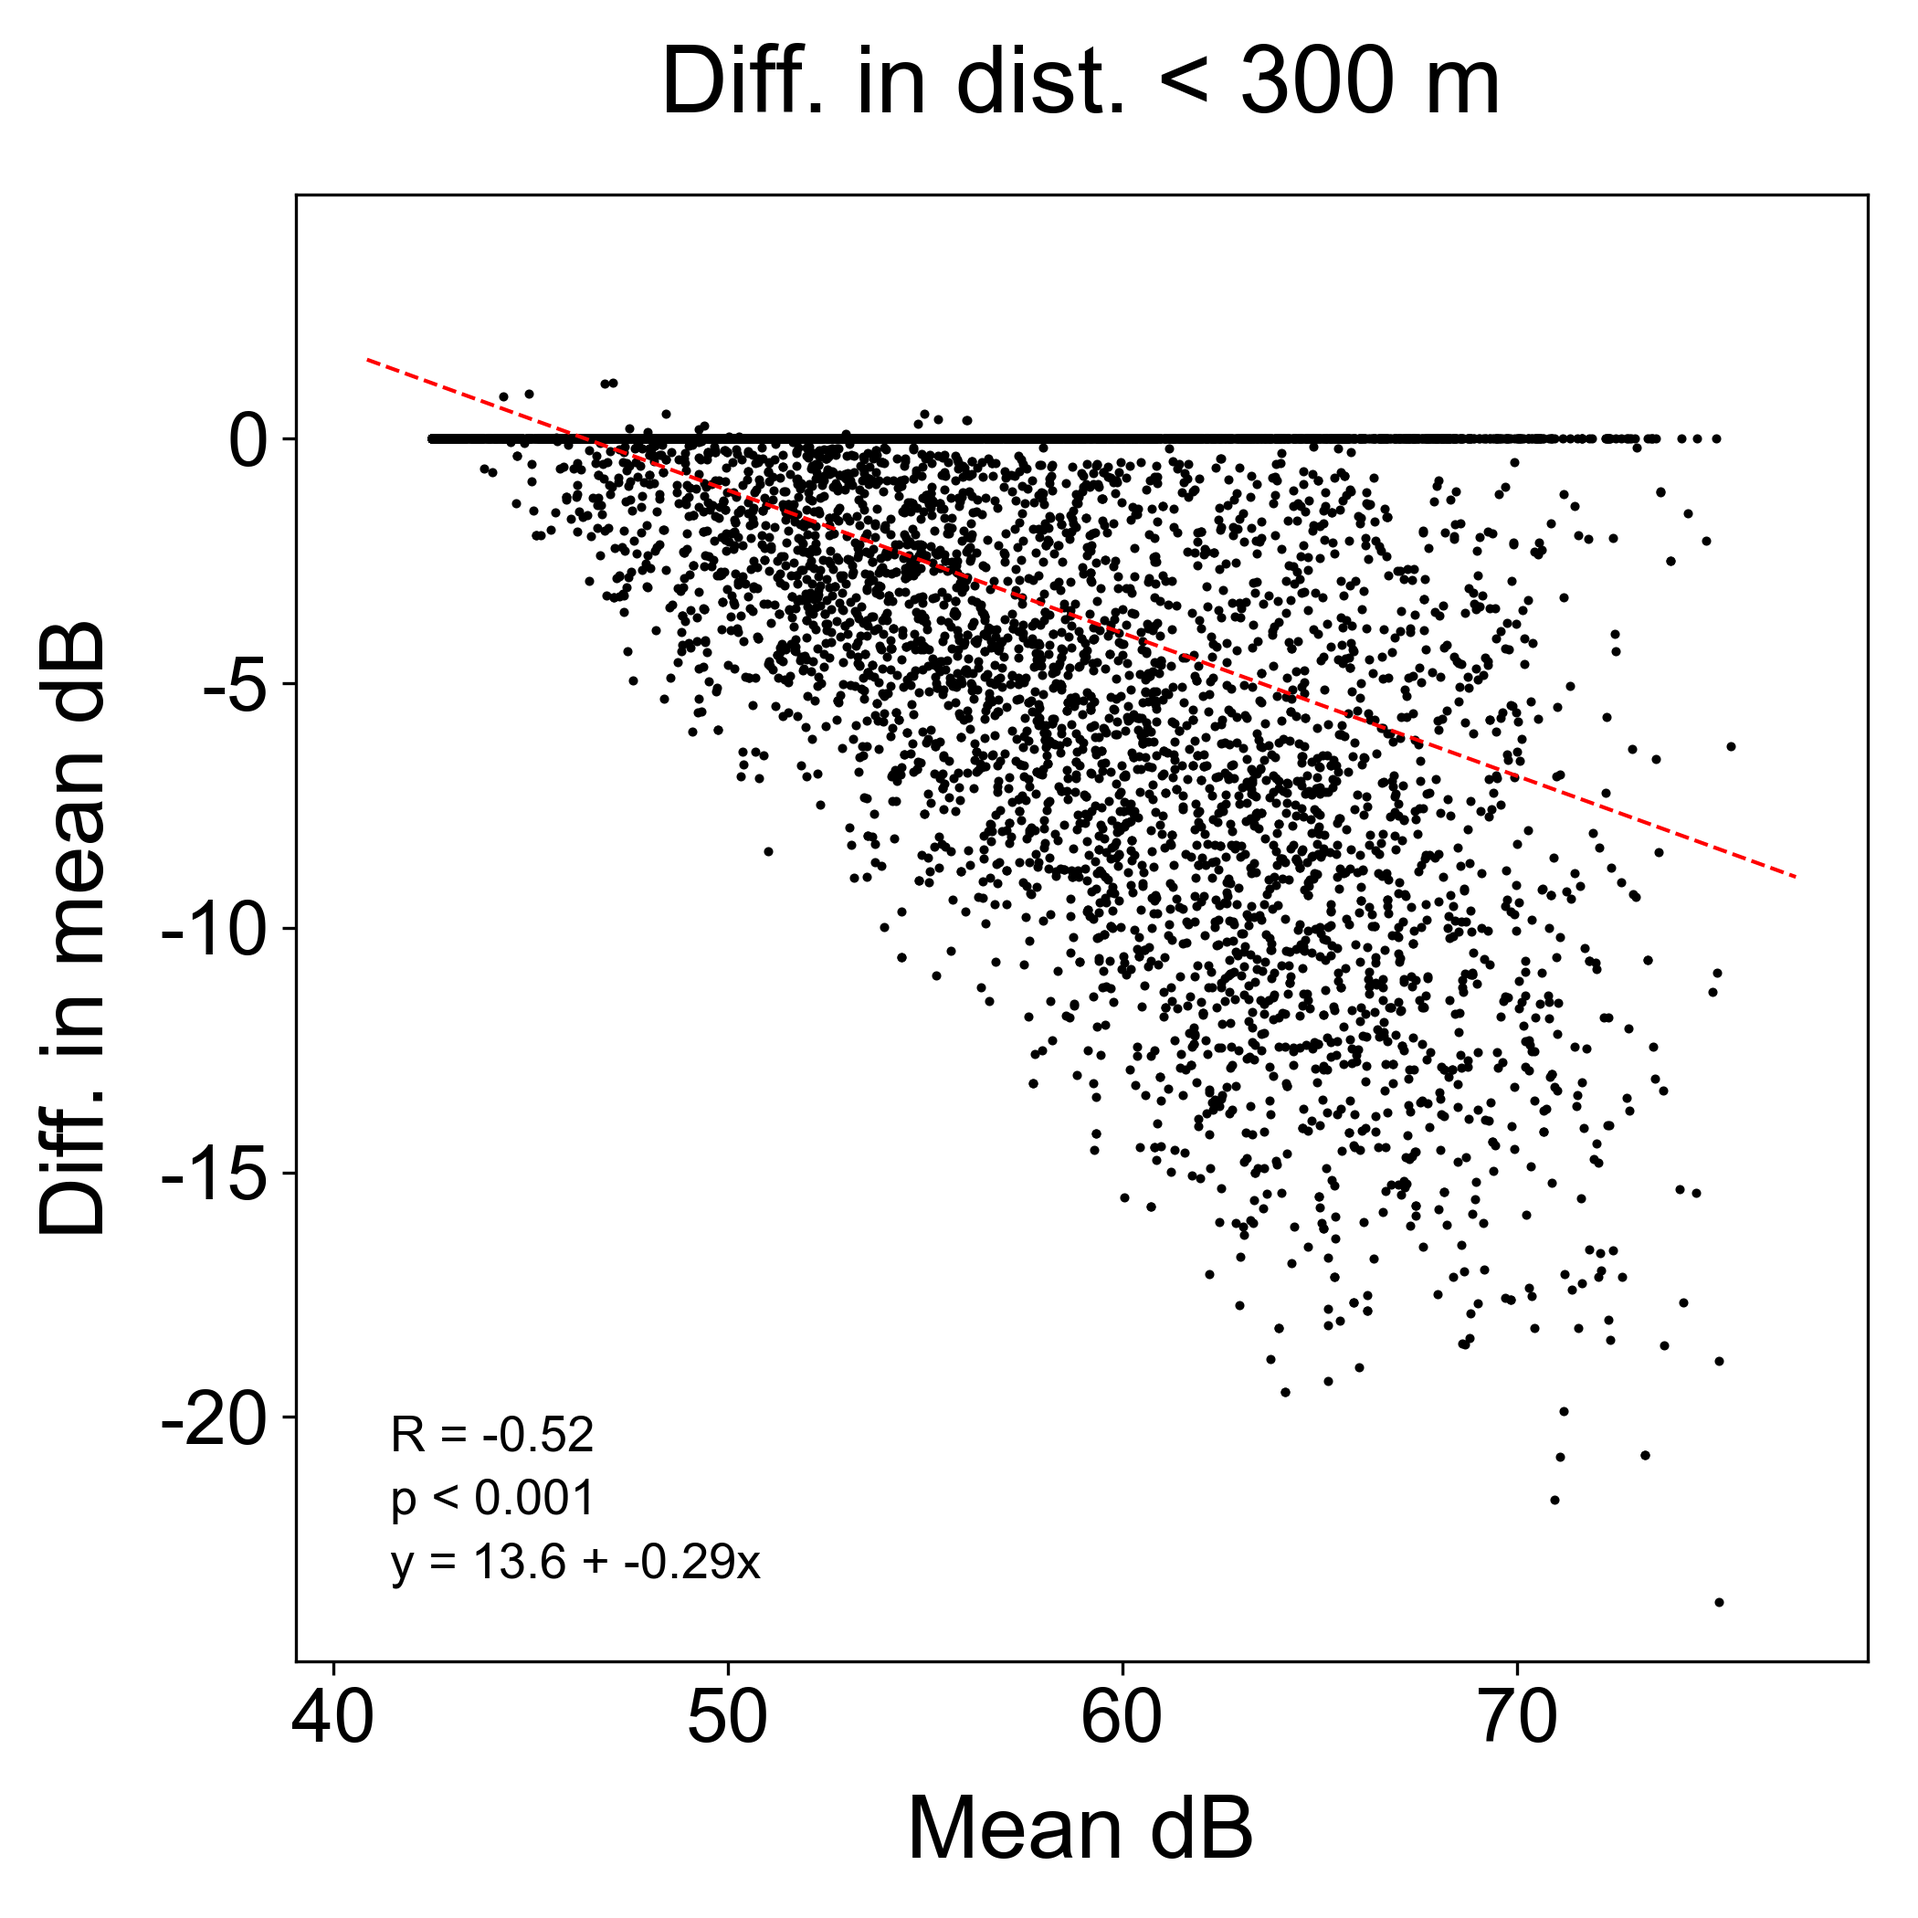
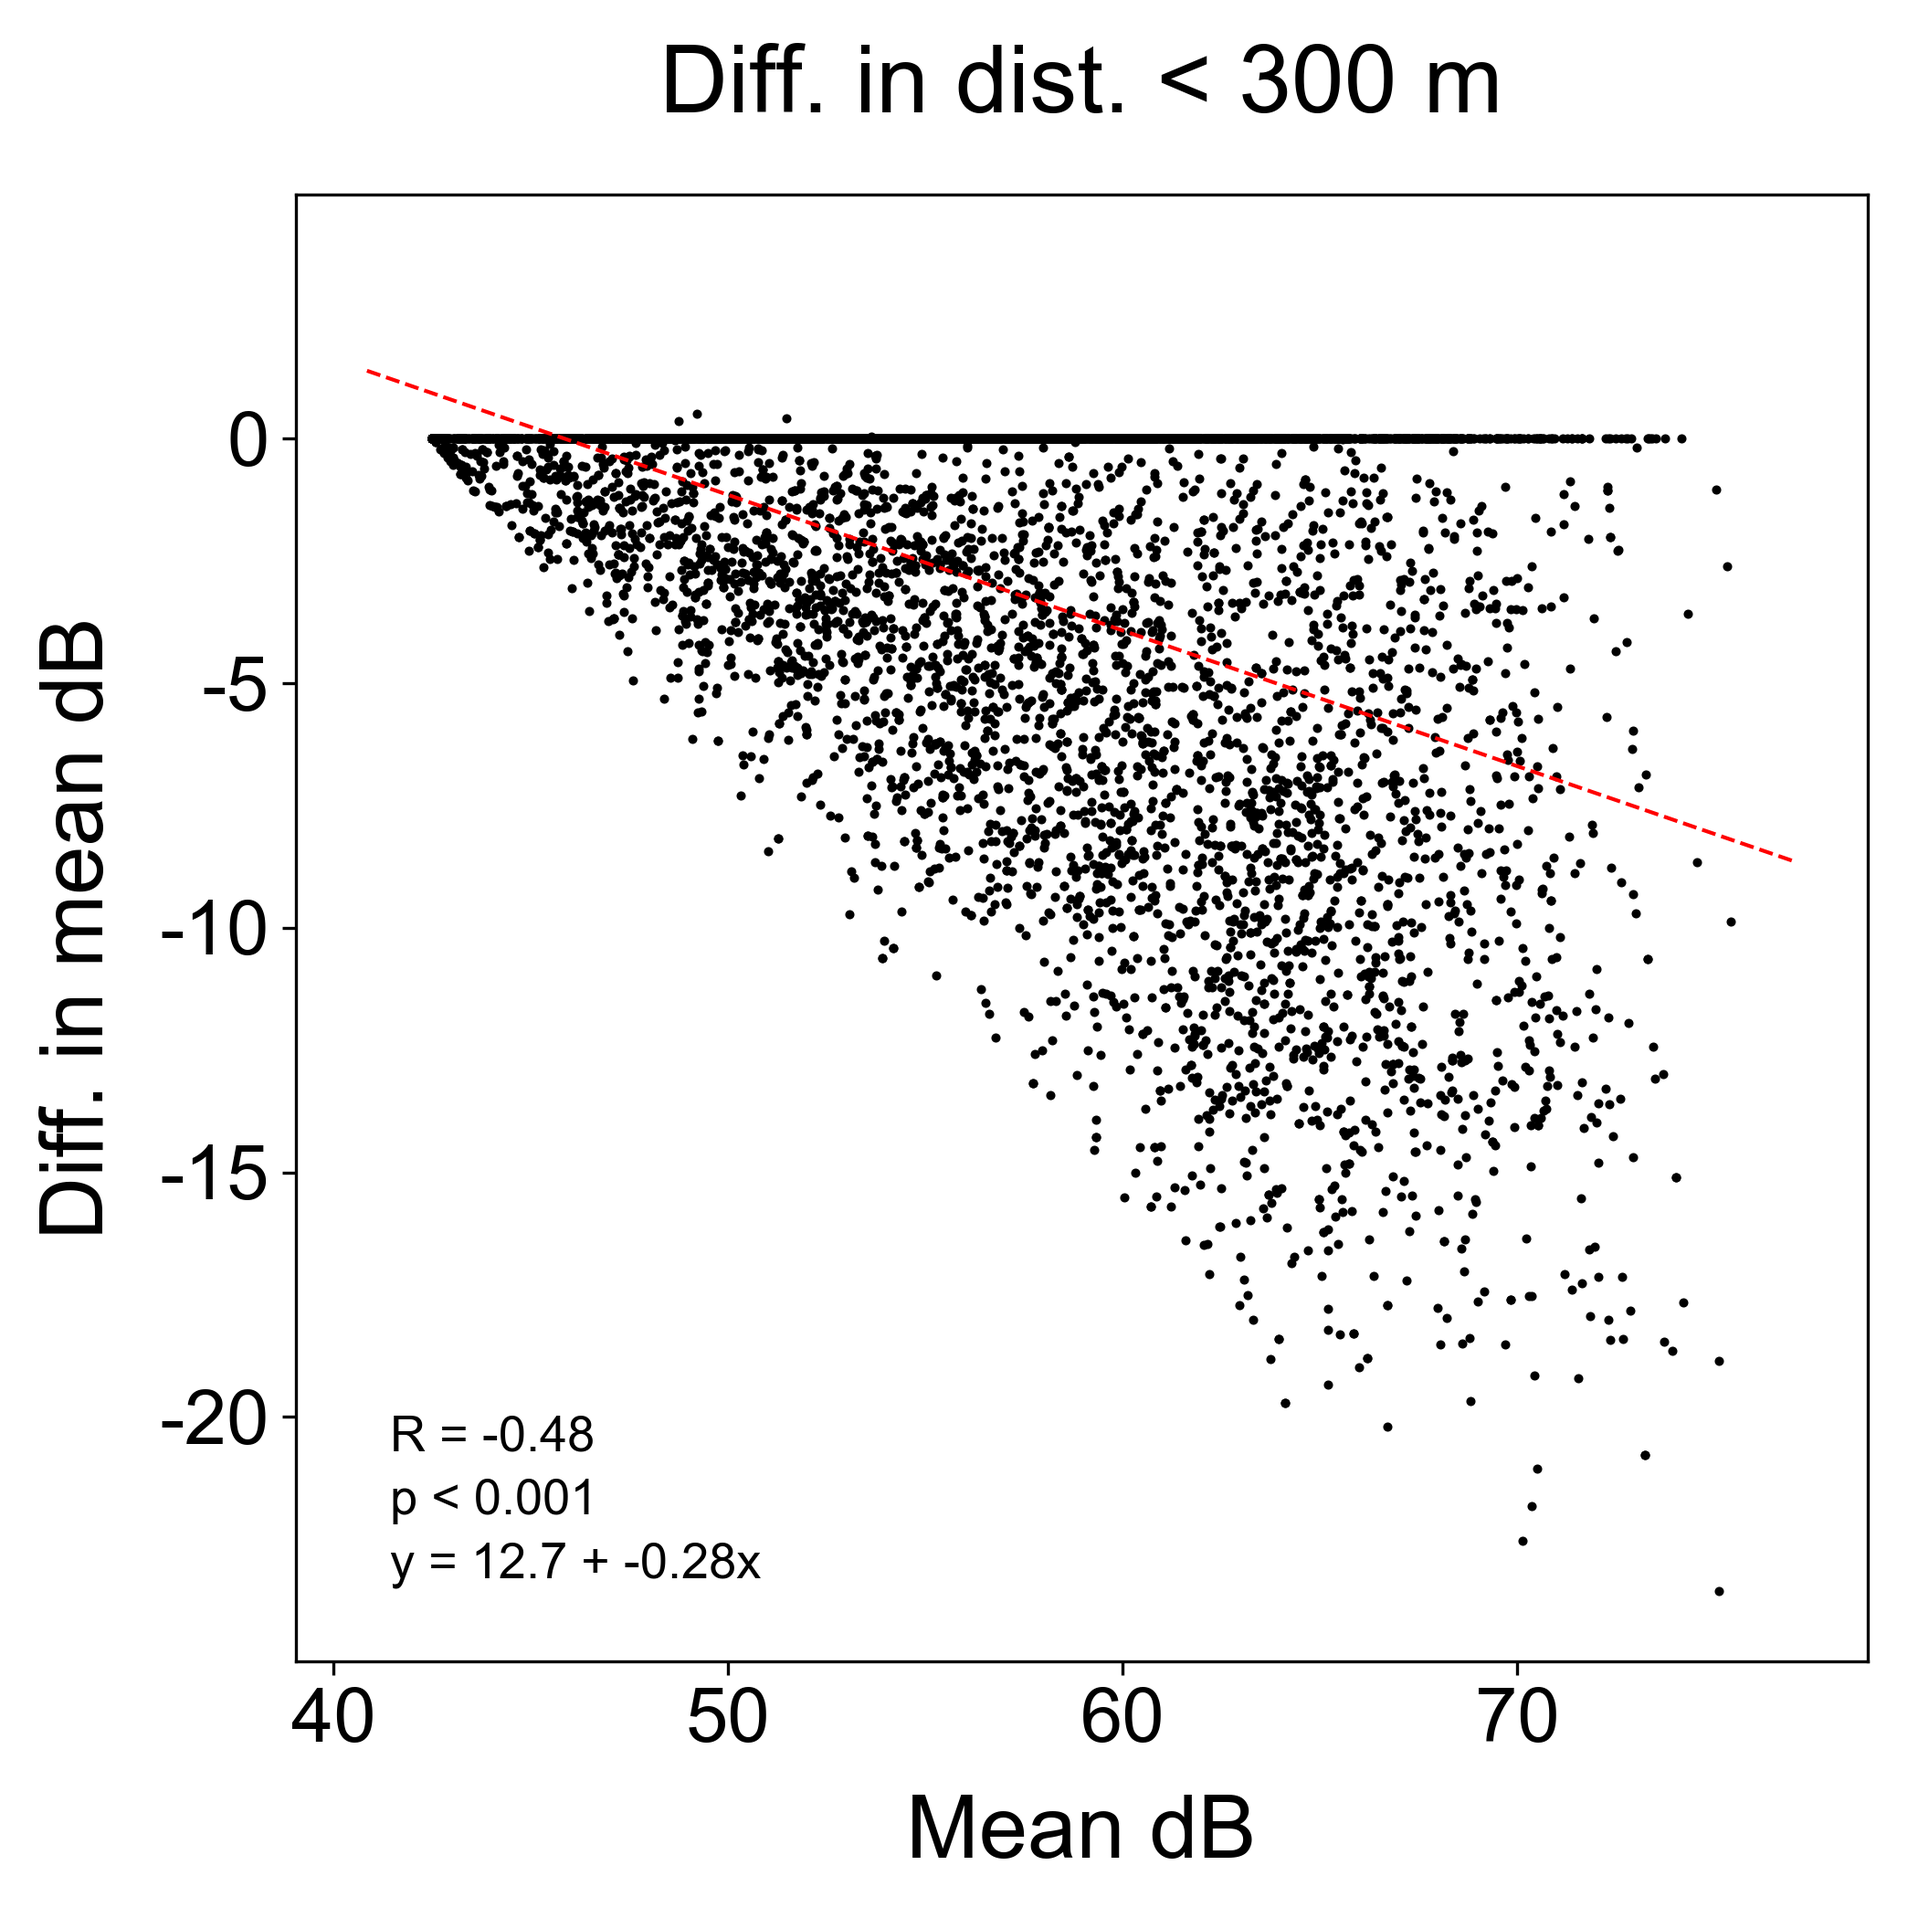
Re-run quiet_path_stats (run_6)

diff --git a/src/scripts_analysis/quiet_path_stats.py b/src/scripts_analysis/quiet_path_stats.py
@@ -12,9 +12,8 @@ import utils.files as files
 import utils.plots as plots
 import utils.exposures as exps
 
-walks_in_file = 'run_5_set_1'
+walks_in_file = 'run_6_set_1'
 problem_axyinds = [3933756673875]
-axyind_stats_out_file = 'axyind_stats_v4'
 
 #%% read all paths
 paths =  gpd.read_file('outputs/YKR_commutes_output/home_paths.gpkg', layer=walks_in_file)
@@ -27,8 +26,6 @@ print('axyind count:', len(paths['from_axyind'].unique()))
 print('paths per axyind:', round(len(paths.index)/len(paths['from_axyind'].unique())))
 print(paths.columns)
 
-#%% fix dt len diff ratio - only needed for run_5_set_1 and older (fixed routing script)
-paths = pstats.fix_dt_len_diff(paths) # TODO disable for run_6 paths and newer
 #%% mark path stats to -9999 for paths that are actually PT legs (origin happened to be exactly at the PT stop)
 paths = pstats.map_pt_path_props_to_null(paths)
 
@@ -88,7 +85,7 @@ for key, group in grouped:
     qps['65dB_diff_r'] = [ round((dblendiff/sp['65dBl'])*100) if sp['65dBl'] != 0 else 0 for dblendiff in qps['65dB_diff']]
     # collect
     sp_stats = {'od_id': key, 'length': sp['length'], 'mdB': sp['mdB'], 'nei': sp['nei'], 'nei_norm': sp['nei_norm'], 'util': sp['util'], '60dBl': sp['60dBl'], '65dBl': sp['65dBl'], '60dBr': sp['60dBr'], '65dBr': sp['65dBr'] }
-    qp_stats = pstats.get_best_quiet_paths_of_max_len_diffs(od_id=key, df=qps, sp=sp, max_len_diffs=[30, 100, 150, 200, 300, 500])
+    qp_stats = pstats.get_best_quiet_paths_of_max_len_diffs(od_id=key, df=qps, sp=sp, max_len_diffs=[100, 200, 300])
     qp_stats['count_qp'] = len(qps)
     all_od_stats.append({ **sp_stats, **qp_stats })
     # print('best_qp', od_stats)
@@ -144,7 +141,7 @@ for qp_name in qps.keys():
 
 #%% nei - paths 300-600 m
 for qp_name in qps.keys():
-    fig = plots.scatterplot(od_stats_len_300_600, 'nei', 'nei_diff_'+ qp_name, linreg=True, xlabel='Noise exposure (index)', ylabel='Diff. in noise exposure (index)', title=qps[qp_name], large_text=True, yvaluemap=(-9999, 0), line='-xy', point_s=2)
+    fig = plots.scatterplot(od_stats_len_300_600, 'nei', 'nei_diff_'+ qp_name, linreg=True, xlabel='Noise exposure index', ylabel='Diff. in noise exposure index', title=qps[qp_name], large_text=True, yvaluemap=(-9999, 0), line='-xy', point_s=2)
     fig.savefig('plots/quiet_path_plots/p300_600_nei_'+ qp_name +'.png', format='png', dpi=300)
 
 #%% mdB - paths 700-1300 m
@@ -164,7 +161,7 @@ for qp_name in qps.keys():
 
 #%% nei - paths 700-1300 m
 for qp_name in qps.keys():
-    fig = plots.scatterplot(od_stats_len_700_1300, 'nei', 'nei_diff_'+ qp_name, linreg=True, xlabel='Noise exposure (index)', ylabel='Diff. in noise exposure (index)', title=qps[qp_name], large_text=True, yvaluemap=(-9999, 0), line='-xy', point_s=2)
+    fig = plots.scatterplot(od_stats_len_700_1300, 'nei', 'nei_diff_'+ qp_name, linreg=True, xlabel='Noise exposure index', ylabel='Diff. in noise exposure index', title=qps[qp_name], large_text=True, yvaluemap=(-9999, 0), line='-xy', point_s=2)
     fig.savefig('plots/quiet_path_plots/p700_1300_nei_'+ qp_name +'.png', format='png', dpi=300)
 
 #%% print quiet path length stats
@@ -198,32 +195,32 @@ for qp_name in qps.keys():
     print('\nqp name:', qp_name, 'noise col:', noise_col, 'qp_noise_diff_col:', qp_noise_diff_col)
     print(od_qp_stats_df)
 
-# path subset length stats: {'n': 7780, 'mean': 981.686, 'median': 973.065, 'std': 170.272} 
+# path subset length stats: {'n': 7842, 'mean': 981.758, 'median': 973.075, 'std': 170.217} 
 
-# Stats of: len_diff_qp100: {'n': 7780, 'mean': 30.369, 'median': 19.1, 'std': 32.207}
-# Stats of: len_diff_qp200: {'n': 7780, 'mean': 74.653, 'median': 66.7, 'std': 63.338}
-# Stats of: len_diff_qp300: {'n': 7780, 'mean': 117.032, 'median': 107.0, 'std': 93.031}
+# Stats of: len_diff_qp100: {'n': 7842, 'mean': 31.226, 'median': 20.8, 'std': 32.438}
+# Stats of: len_diff_qp200: {'n': 7842, 'mean': 74.267, 'median': 64.1, 'std': 63.97}
+# Stats of: len_diff_qp300: {'n': 7842, 'mean': 116.962, 'median': 103.4, 'std': 94.689}
 
 # qp name: qp100 noise col: 65dBr qp_noise_diff_col: 65dB_diff_r_qp100
 # name       10_40     40_70    70_100
-# n       4455.000  2216.000  1109.000
-# mean     -21.146   -31.932   -29.655
-# median     0.000   -28.000   -25.000
-# std       29.483    31.022    29.416
+# n       4358.000  2347.000  1137.000
+# mean     -22.219   -35.032   -32.040
+# median     0.000   -33.000   -28.000
+# std       30.187    31.746    29.704
 
 # qp name: qp200 noise col: 65dBr qp_noise_diff_col: 65dB_diff_r_qp200
 # name       10_40     40_70    70_100
-# n       4455.000  2216.000  1109.000
-# mean     -28.999   -46.272   -45.674
-# median   -20.000   -49.000   -51.000
-# std       32.351    30.740    30.412
+# n       4358.000  2347.000  1137.000
+# mean     -29.368   -48.513   -47.749
+# median   -20.000   -53.000   -54.000
+# std       32.646    30.539    29.816
 
 # qp name: qp300 noise col: 65dBr qp_noise_diff_col: 65dB_diff_r_qp300
 # name       10_40     40_70    70_100
-# n       4455.000  2216.000  1109.000
-# mean     -32.203   -53.467   -55.326
-# median   -27.000   -58.500   -62.000
-# std       33.291    28.922    27.439
+# n       4358.000  2347.000  1137.000
+# mean     -32.236   -55.576   -56.675
+# median   -26.000   -60.000   -64.000
+# std       33.375    28.005    26.710
 
 #%% qp stats in terms of noise attribute dBmean
 noise_col = 'mdB'
@@ -245,32 +242,32 @@ for qp_name in qps.keys():
     print('\nqp name:', qp_name, 'noise col:', noise_col, 'qp_noise_diff_col:', qp_noise_diff_col)
     print(od_qp_stats_df)
 
-# path subset length stats: {'n': 6742, 'mean': 978.106, 'median': 968.32, 'std': 169.195} 
+# path subset length stats: {'n': 6925, 'mean': 979.177, 'median': 969.82, 'std': 169.547} 
 
-# Stats of: len_diff_qp100: {'n': 6742, 'mean': 31.376, 'median': 21.0, 'std': 32.478}
-# Stats of: len_diff_qp200: {'n': 6742, 'mean': 78.985, 'median': 74.7, 'std': 63.502}
-# Stats of: len_diff_qp300: {'n': 6742, 'mean': 126.094, 'median': 121.6, 'std': 92.84}
+# Stats of: len_diff_qp100: {'n': 6925, 'mean': 31.796, 'median': 21.5, 'std': 32.691}
+# Stats of: len_diff_qp200: {'n': 6925, 'mean': 77.398, 'median': 70.1, 'std': 64.435}
+# Stats of: len_diff_qp300: {'n': 6925, 'mean': 122.474, 'median': 113.1, 'std': 94.368}
 
 # qp name: qp100 noise col: mdB qp_noise_diff_col: mdB_diff_qp100
 # name       55_60     60_65     65_80
-# n       2907.000  2259.000  1582.000
-# mean      -2.261    -3.499    -4.542
-# median    -1.300    -2.360    -3.125
-# std        2.682     3.890     4.795
+# n       2901.000  2379.000  1654.000
+# mean      -2.401    -3.876    -4.972
+# median    -1.410    -2.780    -3.590
+# std        2.831     4.093     4.995
 
 # qp name: qp200 noise col: mdB qp_noise_diff_col: mdB_diff_qp200
 # name       55_60     60_65     65_80
-# n       2907.000  2259.000  1582.000
-# mean      -3.461    -5.597    -7.468
-# median    -3.000    -5.320    -7.695
-# std        3.046     4.260     5.370
+# n       2901.000  2379.000  1654.000
+# mean      -3.555    -5.883    -7.782
+# median    -3.040    -5.560    -7.870
+# std        3.229     4.450     5.459
 
 # qp name: qp300 noise col: mdB qp_noise_diff_col: mdB_diff_qp300
 # name       55_60     60_65     65_80
-# n       2907.000  2259.000  1582.000
-# mean      -4.138    -6.893    -9.398
-# median    -3.880    -7.040   -10.115
-# std        3.204     4.301     5.351
+# n       2901.000  2379.000  1654.000
+# mean      -4.224    -7.151    -9.593
+# median    -3.870    -7.270   -10.220
+# std        3.424     4.461     5.371
 
 
 ### SHORTER PATHS (300-400 M) ###
@@ -296,32 +293,32 @@ for qp_name in qps.keys():
     print('\nqp name:', qp_name, 'noise col:', noise_col, 'qp_noise_diff_col:', qp_noise_diff_col)
     print(od_qp_stats_df)
 
-# path subset length stats: {'n': 4353, 'mean': 447.379, 'median': 444.03, 'std': 86.149} 
+# path subset length stats: {'n': 4338, 'mean': 447.577, 'median': 444.83, 'std': 85.929} 
 
-# Stats of: len_diff_qp100: {'n': 4353, 'mean': 18.119, 'median': 0.0, 'std': 28.083}
-# Stats of: len_diff_qp200: {'n': 4353, 'mean': 43.53, 'median': 12.4, 'std': 57.537}
-# Stats of: len_diff_qp300: {'n': 4353, 'mean': 64.796, 'median': 20.9, 'std': 83.026}
+# Stats of: len_diff_qp100: {'n': 4338, 'mean': 18.127, 'median': 0.0, 'std': 28.386}
+# Stats of: len_diff_qp200: {'n': 4338, 'mean': 40.928, 'median': 5.8, 'std': 55.887}
+# Stats of: len_diff_qp300: {'n': 4338, 'mean': 60.299, 'median': 16.6, 'std': 80.83}
 
 # qp name: qp100 noise col: 65dBr qp_noise_diff_col: 65dB_diff_r_qp100
 # name       10_40     40_70   70_100
-# n       2452.000  1101.000  801.000
-# mean     -12.487   -22.567  -20.469
+# n       2442.000  1108.000  788.000
+# mean     -12.433   -23.836  -21.551
 # median     0.000     0.000    0.000
-# std       25.845    30.900   27.331
+# std       26.053    31.444   27.622
 
 # qp name: qp200 noise col: 65dBr qp_noise_diff_col: 65dB_diff_r_qp200
 # name       10_40     40_70   70_100
-# n       2452.000  1101.000  801.000
-# mean     -16.175   -32.321  -31.236
-# median     0.000   -26.000  -28.000
-# std       28.611    33.331   30.078
+# n       2442.000  1108.000  788.000
+# mean     -15.687   -32.868  -32.501
+# median     0.000   -28.500  -29.500
+# std       28.558    33.445   29.946
 
 # qp name: qp300 noise col: 65dBr qp_noise_diff_col: 65dB_diff_r_qp300
 # name       10_40     40_70   70_100
-# n       2452.000  1101.000  801.000
-# mean     -17.554   -36.409  -38.187
-# median     0.000   -36.000  -41.000
-# std       29.596    33.740   30.593
+# n       2442.000  1108.000  788.000
+# mean     -16.760   -36.801  -37.905
+# median     0.000   -36.000  -40.000
+# std       29.328    33.738   30.313
 
 #%% qp stats in terms of noise attribute dBmean
 noise_col = 'mdB'
@@ -343,31 +340,31 @@ for qp_name in qps.keys():
     print('\nqp name:', qp_name, 'noise col:', noise_col, 'qp_noise_diff_col:', qp_noise_diff_col)
     print(od_qp_stats_df)
 
-# path subset length stats: {'n': 4077, 'mean': 443.856, 'median': 438.53, 'std': 86.273} 
+# path subset length stats: {'n': 4103, 'mean': 444.218, 'median': 439.18, 'std': 86.212} 
 
-# Stats of: len_diff_qp100: {'n': 4077, 'mean': 18.938, 'median': 0.0, 'std': 28.514}
-# Stats of: len_diff_qp200: {'n': 4077, 'mean': 47.321, 'median': 15.8, 'std': 59.381}
-# Stats of: len_diff_qp300: {'n': 4077, 'mean': 72.22, 'median': 31.6, 'std': 86.285}
+# Stats of: len_diff_qp100: {'n': 4103, 'mean': 18.537, 'median': 0.0, 'std': 28.642}
+# Stats of: len_diff_qp200: {'n': 4103, 'mean': 42.512, 'median': 8.1, 'std': 56.663}
+# Stats of: len_diff_qp300: {'n': 4103, 'mean': 63.612, 'median': 20.9, 'std': 82.688}
 
 # qp name: qp100 noise col: mdB qp_noise_diff_col: mdB_diff_qp100
 # name       55_60     60_65     65_80
-# n       1624.000  1357.000  1107.000
-# mean      -1.565    -2.562    -2.758
+# n       1616.000  1404.000  1092.000
+# mean      -1.622    -2.614    -3.040
 # median     0.000     0.000     0.000
-# std        2.542     3.921     3.976
+# std        2.664     3.997     4.269
 
 # qp name: qp200 noise col: mdB qp_noise_diff_col: mdB_diff_qp200
 # name       55_60     60_65     65_80
-# n       1624.000  1357.000  1107.000
-# mean      -2.364    -4.285    -4.959
-# median    -0.500    -2.970    -3.550
-# std        3.095     4.590     5.228
+# n       1616.000  1404.000  1092.000
+# mean      -2.321    -4.063    -5.111
+# median     0.000    -2.255    -3.790
+# std        3.185     4.674     5.308
 
 # qp name: qp300 noise col: mdB qp_noise_diff_col: mdB_diff_qp300
 # name       55_60     60_65     65_80
-# n       1624.000  1357.000  1107.000
-# mean      -2.815    -5.156    -6.417
-# median    -1.170    -4.960    -5.940
-# std        3.348     4.862     5.769
+# n       1616.000  1404.000  1092.000
+# mean      -2.689    -4.885    -6.428
+# median     0.000    -3.785    -5.750
+# std        3.425     5.033     5.808
 
 #%%
